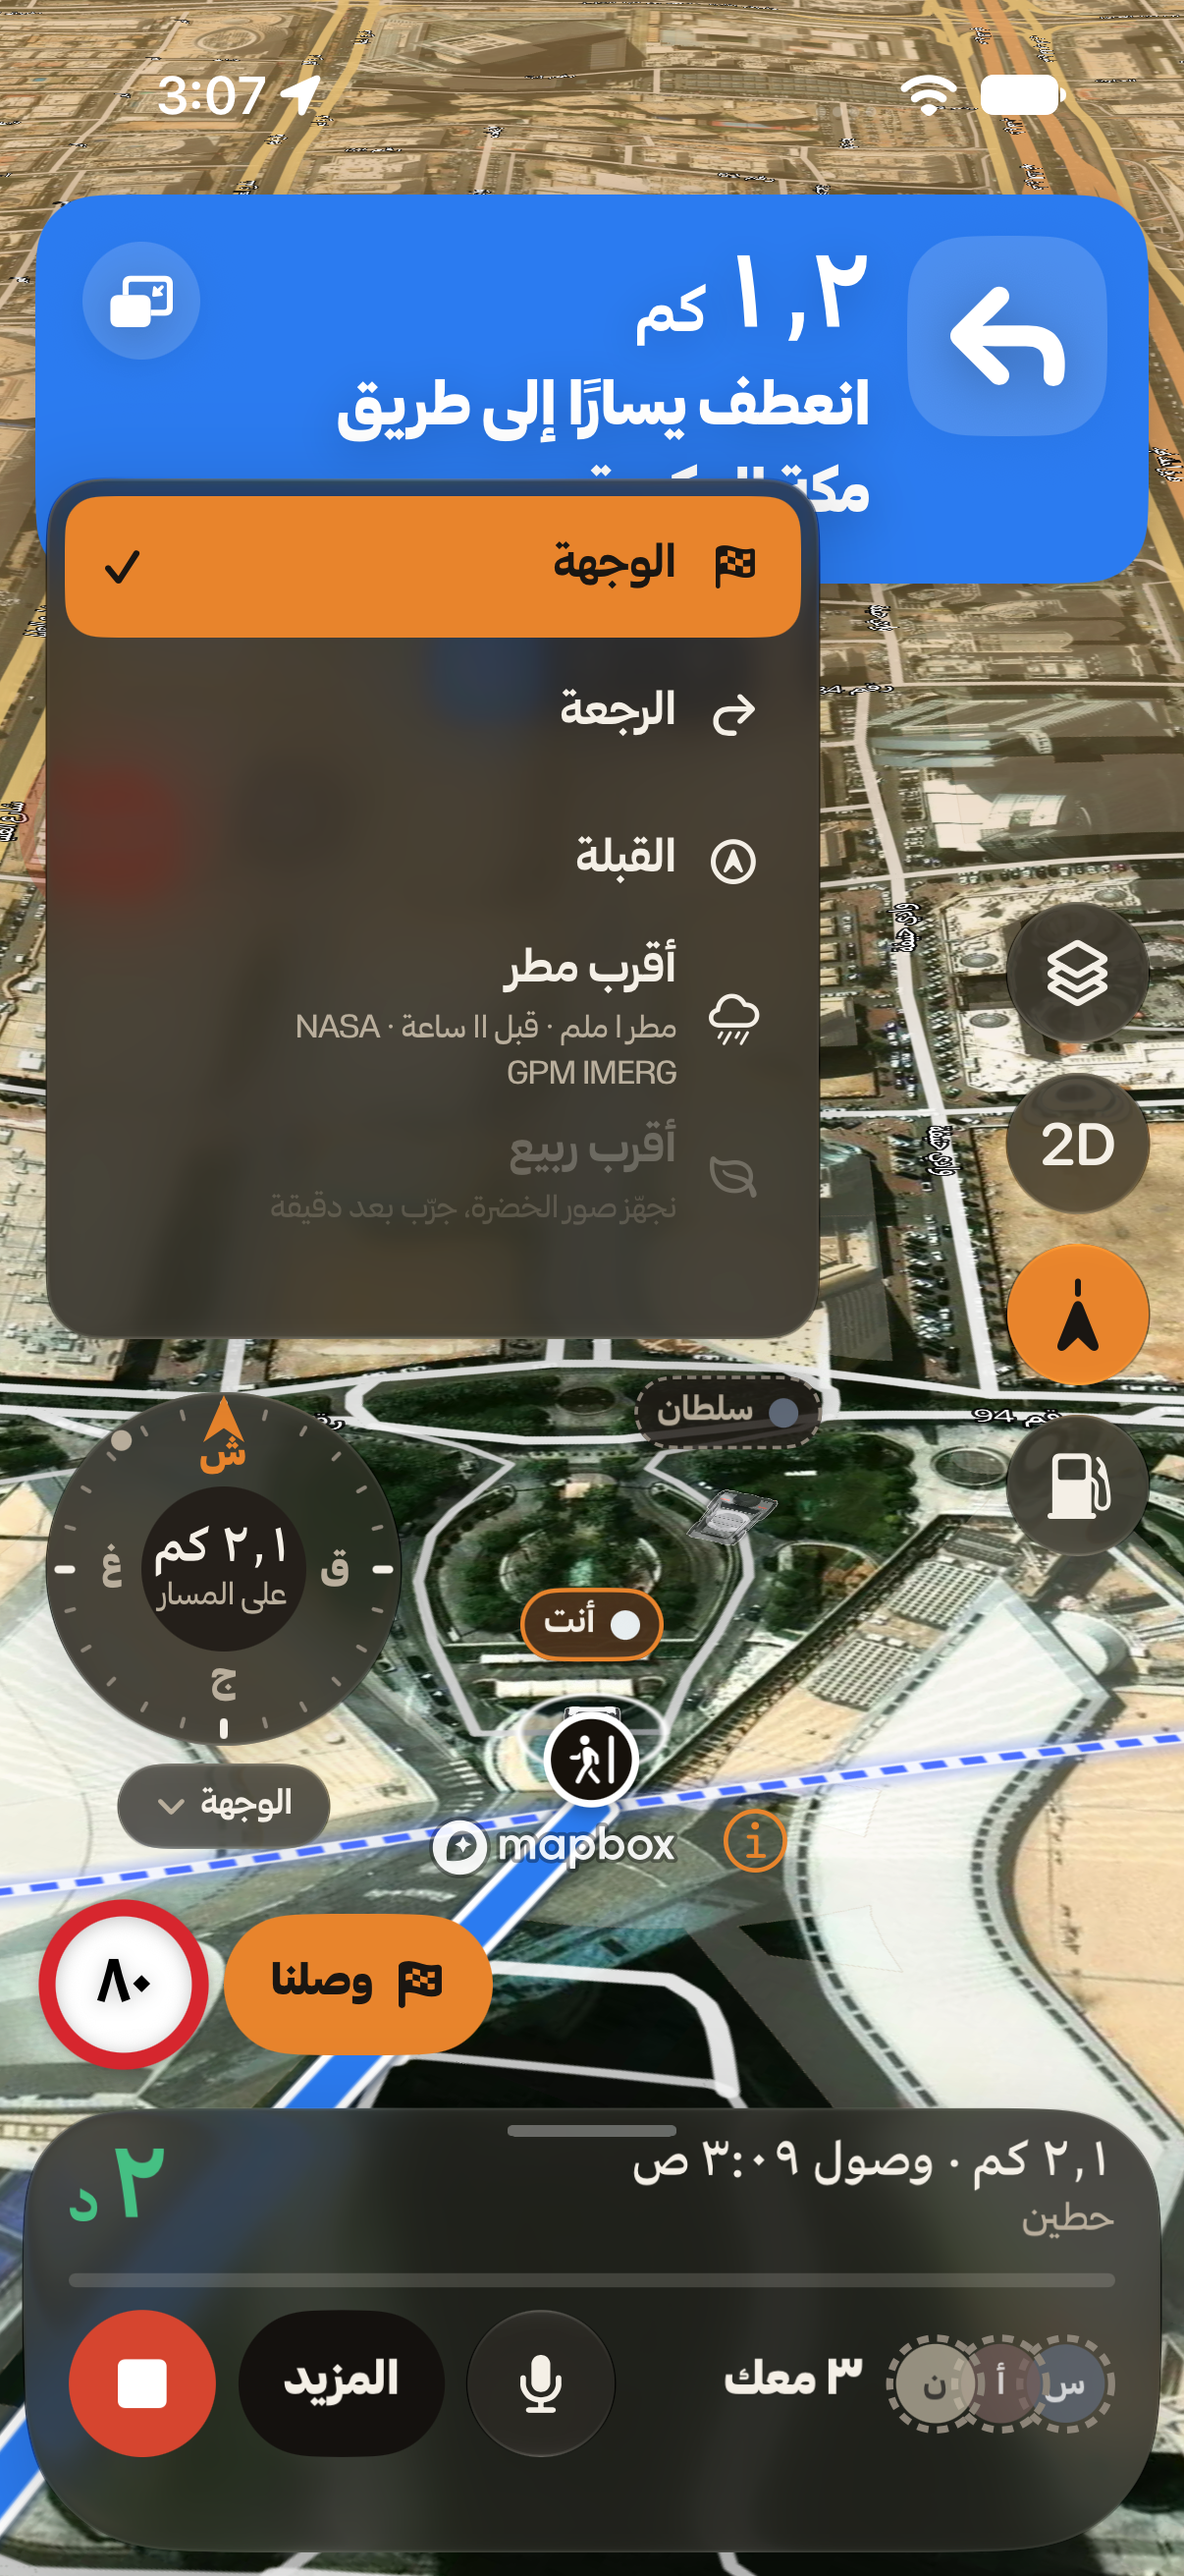
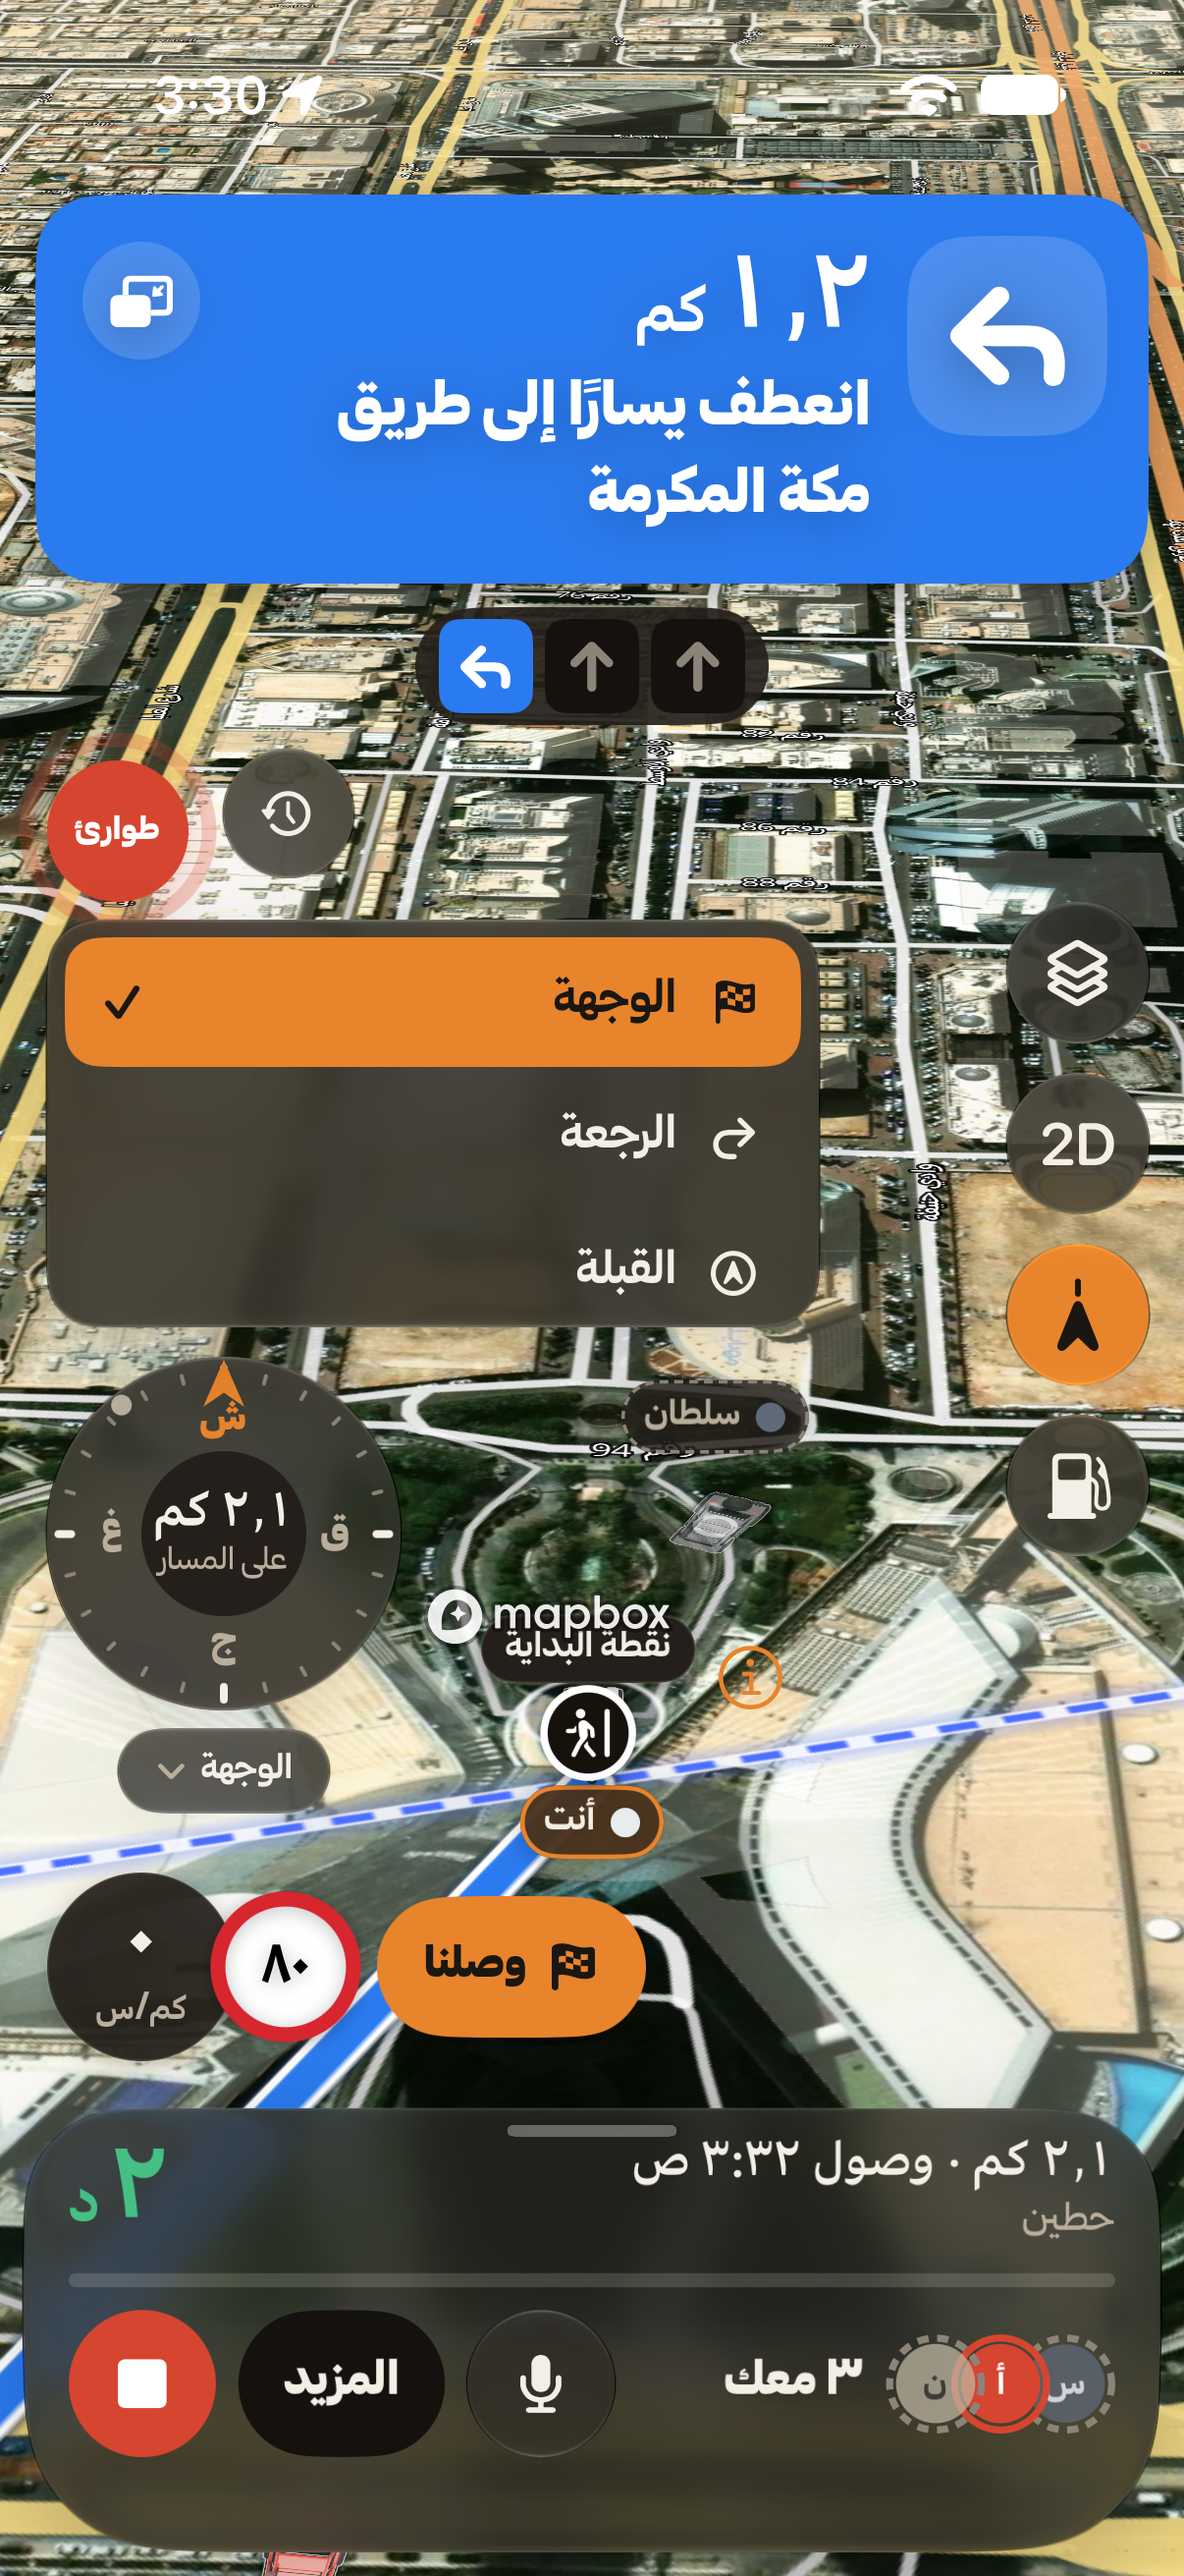
Compass list: offset by its capped height, stays under the card and above «طوارئ»; shots

diff --git a/apps/ios/SaryAlbarq/Sources/Navigation/DestinationCompassView.swift b/apps/ios/SaryAlbarq/Sources/Navigation/DestinationCompassView.swift
@@ -321,8 +321,8 @@ struct DestinationCompassView: View {
                 /* Trailing edges meet (the dial is at the screen's left in Arabic, the card grows to the right). */
                 targetList
                     .saryGlass(RoundedRectangle(cornerRadius: 18, style: .continuous), role: .chrome)
-                    .background(GeometryReader { g in Color.clear.preference(key: CompassListHeightKey.self, value: g.size.height) })
-                    .offset(y: -(listHeight + 10))
+                    /* The offset uses the box's own height (rows measured, capped): a preference read from this overlay never arrived. */
+                    .offset(y: -(listBoxHeight + 10))
                     .transition(.opacity)
             }
         }
@@ -344,19 +344,24 @@ struct DestinationCompassView: View {
     static func maxListHeight(dialTop: CGFloat, safeTop: CGFloat) -> CGFloat {
         max(96, dialTop - 10 - (safeTop + reserveTop))
     }
-    static let reserveTop: CGFloat = 215
+    /* Under the maneuver card, its chips AND the «طوارئ» / history row (that disc stays reachable, never under the list). */
+    static let reserveTop: CGFloat = 250
 
     /// The five targets, as in the mockup: the chosen one filled, a reason under a disabled one.
+    private var listBoxHeight: CGFloat {
+        let safeTop = UIApplication.shared.connectedScenes.compactMap { ($0 as? UIWindowScene)?.keyWindow?.safeAreaInsets.top }.first ?? 59
+        return min(rowsHeight, Self.maxListHeight(dialTop: dialTopHint ?? dialTop, safeTop: safeTop))
+    }
+
     private var targetList: some View {
         let p = theme.palette
-        let safeTop = UIApplication.shared.connectedScenes.compactMap { ($0 as? UIWindowScene)?.keyWindow?.safeAreaInsets.top }.first ?? 59
         /* The rows' own height is measured, then the box is that tall or the room above the dial, whichever is less (a `ScrollView`
          * under `fixedSize` ignored the cap). */
         return ScrollView(.vertical, showsIndicators: false) {
             listRows(p).background(GeometryReader { g in Color.clear.preference(key: CompassRowsHeightKey.self, value: g.size.height) })
         }
         .onPreferenceChange(CompassRowsHeightKey.self) { rowsHeight = $0 }
-        .frame(height: min(rowsHeight, Self.maxListHeight(dialTop: dialTopHint ?? dialTop, safeTop: safeTop)))
+        .frame(height: listBoxHeight)
     }
 
     private func listRows(_ p: SaryPalette) -> some View {
@@ -388,7 +393,7 @@ struct DestinationCompassView: View {
                     }
                     .foregroundStyle(on ? p.onAccent : p.textPrimary)
                     .padding(.horizontal, theme.space(.m))
-                    .frame(minHeight: 48)
+                    .frame(minHeight: 44)
                     .background(RoundedRectangle(cornerRadius: 12, style: .continuous).fill(on ? p.accent : Color.clear))
                     .contentShape(Rectangle())
                 }

diff --git a/apps/ios/SaryAlbarq/UITests/NewGuidanceUITests.swift b/apps/ios/SaryAlbarq/UITests/NewGuidanceUITests.swift
@@ -145,6 +145,8 @@ final class NewGuidanceUITests: XCTestCase {
         let card = el(app, "nav.banner").frame
         XCTAssertGreaterThanOrEqual(first.frame.minY, card.maxY + 4, "the list starts under the card: \(first.frame) vs \(card)")
         XCTAssertLessThanOrEqual(first.frame.maxX, app.frame.maxX + 1)
+        let sos = el(app, "outing-sos")
+        if sos.exists { XCTAssertGreaterThanOrEqual(first.frame.minY, sos.frame.maxY, "«طوارئ» stays uncovered by the list") }
         shot(app, "compass-menu-surfaces")
         app.terminate()
     }
